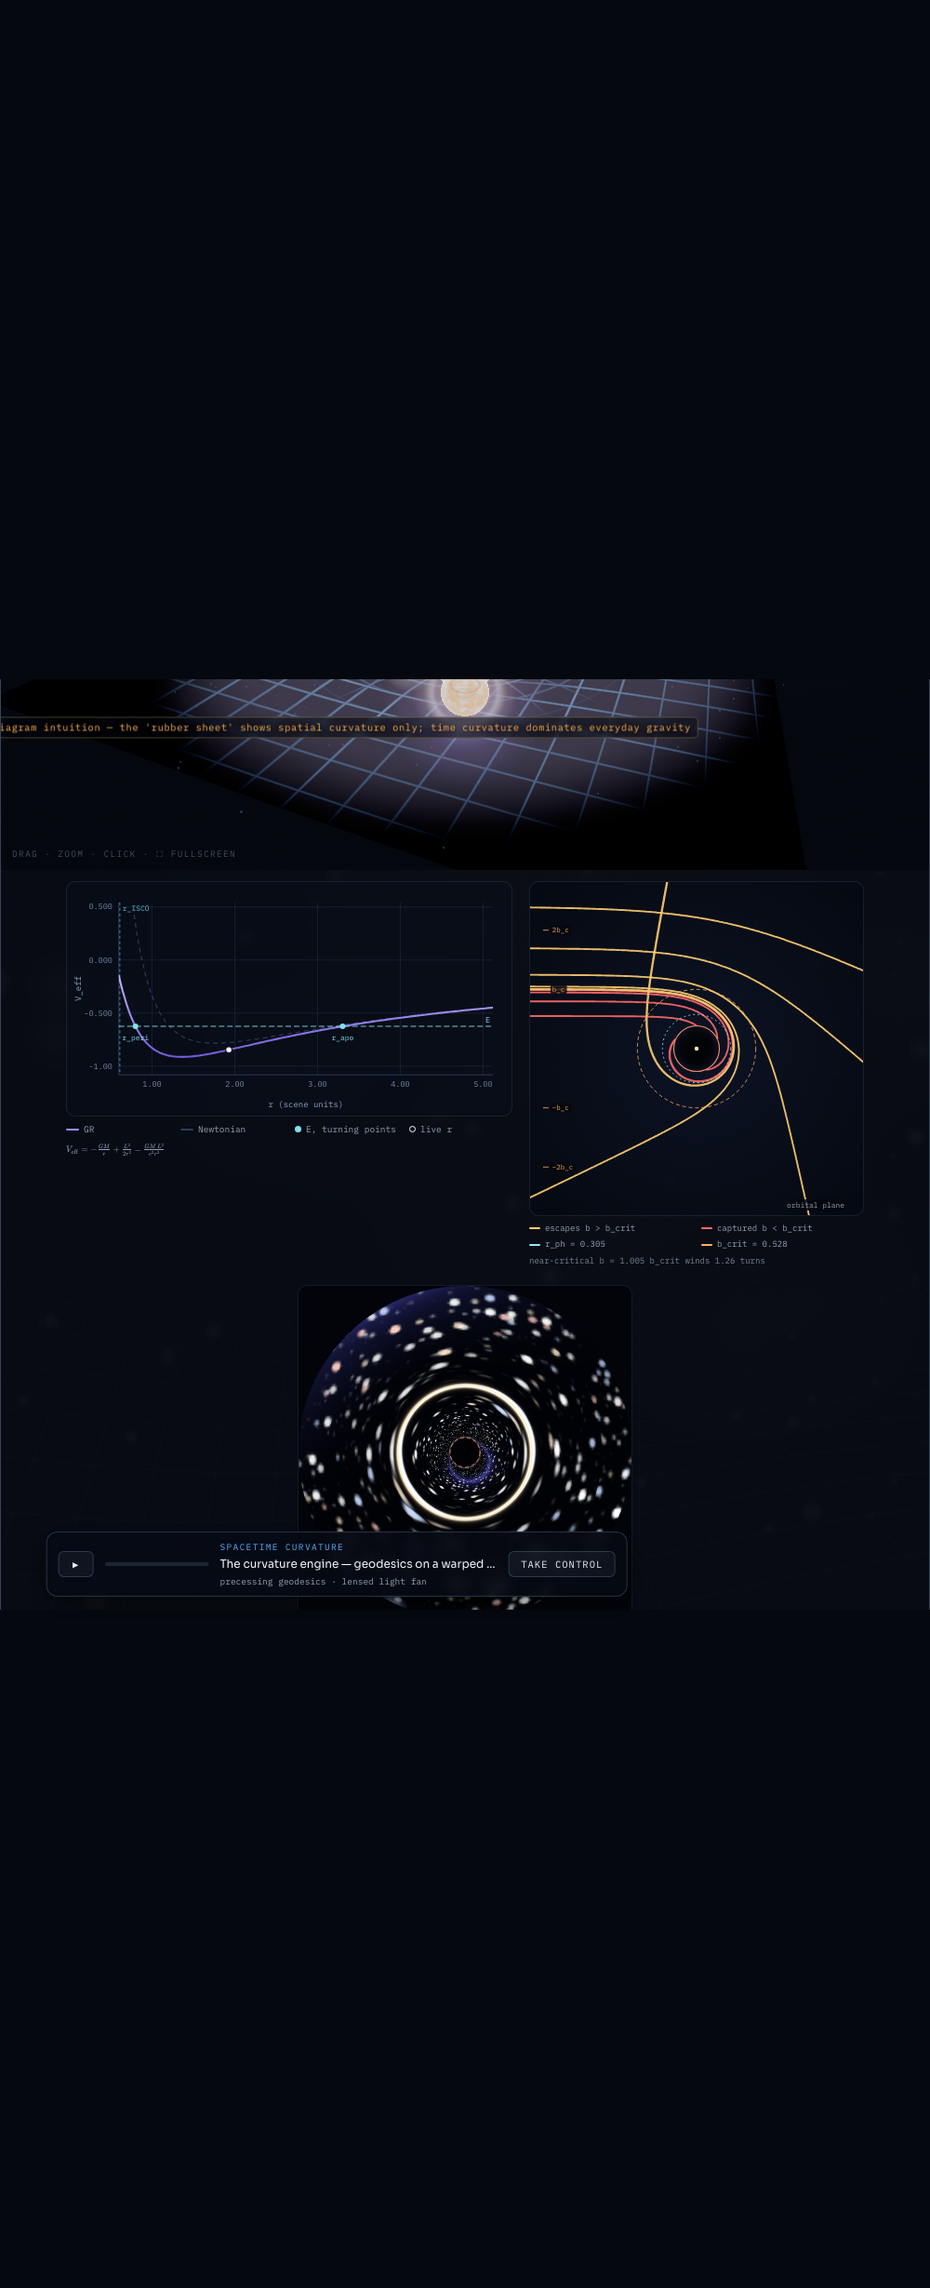
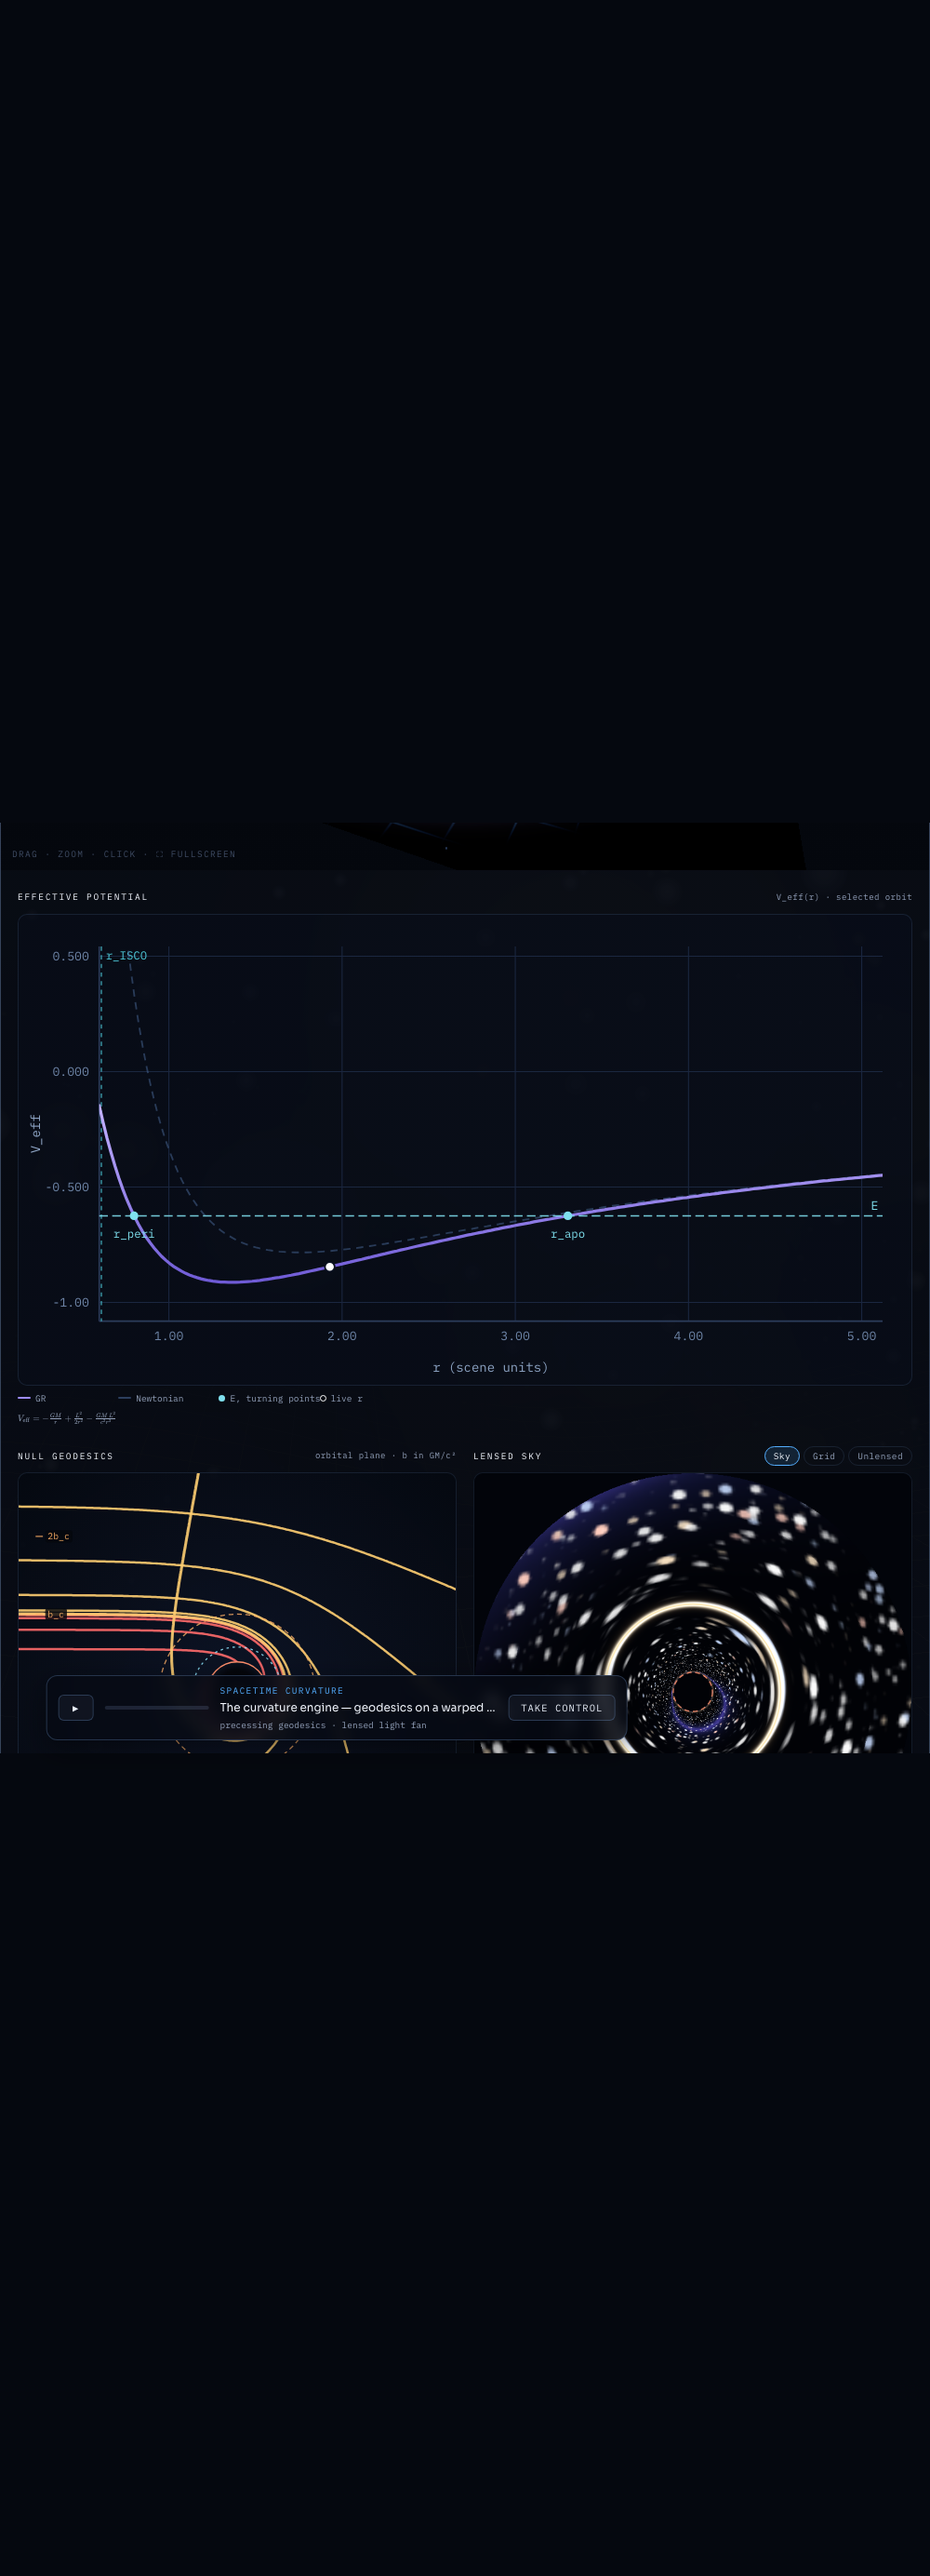
Lay the GR figures out on the content column
The three GR panels were a flex row with a fixed width per panel and
`justify-content: center`. At the 748 px content column the widths summed
to 856 px, so every panel got its own centred row; at 908 px two fit and
the third wrapped alone, leaving half a row empty on either side.

Replace the row with a two-column grid deck that fills the column: the
potential plot spans both columns, the two square figures share the
second row. Panels drop their fixed widths, the grid stretches both cards
to a common height, and the legends pin to the bottom so the two figures
and their keys line up exactly.

Give each figure a compact mono title bar, and move the lensed-sky mode
switcher into its title bar so all three cards share one header height
and the two square figures start on the same baseline.

Widen the potential plot's viewBox from 480x252 to 620x326 so that at the
new full-column width its tick labels land at ~12 px instead of being
scaled up to ~15 px.

diff --git a/index.html b/index.html
@@ -253,10 +253,31 @@ input[type="range"]::-moz-range-thumb { width: 12px; height: 12px; border-radius
 .body-chip { display: inline-flex; align-items: center; gap: 6px; }
 .body-dot { width: 9px; height: 9px; border-radius: 50%; box-shadow: 0 0 6px currentColor; flex: 0 0 auto; }
 .chip-hint { font-family: var(--font-mono); font-size: 10.5px; color: var(--text-dim); align-self: center; }
-.viz-veff-row { display: flex; flex-wrap: wrap; gap: 18px; justify-content: center; align-items: flex-start; }
-.veff-wrap { display: flex; flex-direction: column; gap: 6px; width: min(480px, 82vw); min-width: 0; }
+/* GR analysis deck — three figures laid out on the content column itself, so
+   every card fills its slot and no row is left half empty. The potential plot
+   is wide and spans both columns; the two square figures share the second row. */
+.panel-deck {
+  display: grid;
+  grid-template-columns: repeat(2, minmax(0, 1fr));
+  gap: 18px;
+  padding: 18px;
+  align-items: stretch;
+}
+.panel-deck > .veff-wrap { grid-column: 1 / -1; }
+.panel-head {
+  display: flex; align-items: center; justify-content: space-between; gap: 12px;
+  min-height: 22px;
+  font-family: var(--font-mono); font-size: 9.5px; letter-spacing: 0.18em;
+  text-transform: uppercase; color: var(--head); margin-bottom: 1px;
+}
+.panel-head em { font-style: normal; font-size: 9px; letter-spacing: 0.05em; text-transform: none; color: var(--text-dim); }
+@media (max-width: 720px) {
+  .panel-deck { grid-template-columns: 1fr; gap: 14px; padding: 14px; }
+  .panel-deck > .veff-wrap { grid-column: auto; }
+}
+.veff-wrap { display: flex; flex-direction: column; gap: 6px; width: 100%; min-width: 0; }
 .veff-svg { width: 100%; height: auto; background: rgba(8, 13, 26, 0.55); border: 1px solid var(--line); border-radius: 10px; }
-.veff-legend { display: grid; grid-template-columns: repeat(auto-fit, minmax(92px, 1fr)); gap: 4px 12px; align-items: center; font-family: var(--font-mono); font-size: 9.5px; color: var(--text-dim); }
+.veff-legend { display: grid; grid-template-columns: repeat(auto-fit, minmax(92px, 1fr)); gap: 4px 12px; align-items: center; font-family: var(--font-mono); font-size: 9.5px; color: var(--text-dim); margin-top: auto; }
 .veff-key { display: inline-flex; align-items: center; gap: 5px; white-space: nowrap; }
 .veff-key i { display: inline-block; width: 14px; height: 2px; border-radius: 1px; flex: 0 0 auto; }
 .veff-key i.dash { opacity: 0.55; }
@@ -264,26 +285,27 @@ input[type="range"]::-moz-range-thumb { width: 12px; height: 12px; border-radius
 .veff-key i.ring { width: 7px; height: 7px; border-radius: 50%; border: 1.4px solid #fff; background: transparent; }
 .veff-formula { grid-column: 1 / -1; display: block; padding: 2px 0 4px; overflow-x: auto; overflow-y: hidden; }
 .veff-formula .katex { font-size: 0.92em; }
-.ng-wrap { display: flex; flex-direction: column; gap: 6px; width: min(360px, 82vw); min-width: 0; }
+.ng-wrap { display: flex; flex-direction: column; gap: 6px; width: 100%; min-width: 0; }
 .ng-svg { width: 100%; height: auto; background: radial-gradient(circle at 50% 50%, rgba(12, 20, 38, 0.9), rgba(5, 8, 16, 0.95)); border: 1px solid var(--line); border-radius: 10px; }
-.ng-legend { display: grid; grid-template-columns: 1fr 1fr; gap: 3px 10px; font-family: var(--font-mono); font-size: 9px; color: var(--text-dim); }
+.ng-legend { display: grid; grid-template-columns: 1fr 1fr; gap: 3px 10px; font-family: var(--font-mono); font-size: 9px; color: var(--text-dim); margin-top: auto; }
 .ng-legend span { display: inline-flex; align-items: center; gap: 5px; white-space: nowrap; }
 .ng-legend i { display: inline-block; width: 12px; height: 2px; border-radius: 1px; flex: 0 0 auto; }
 .ng-legend .ng-note { grid-column: 1 / -1; opacity: 0.8; }
 @keyframes ng-flow { from { stroke-dashoffset: 100; } to { stroke-dashoffset: 0; } }
 .ng-pulse { animation: ng-flow 3.6s linear infinite; }
 @media (prefers-reduced-motion: reduce) { .ng-pulse { animation: none; stroke-dasharray: none; stroke-dashoffset: 0; opacity: 0.85; } }
-.lens-wrap { display: flex; flex-direction: column; gap: 6px; width: min(360px, 82vw); min-width: 0; }
+.lens-wrap { display: flex; flex-direction: column; gap: 6px; width: 100%; min-width: 0; }
 .lens-stage { position: relative; width: 100%; aspect-ratio: 1; }
 .lens-canvas { display: block; width: 100%; height: 100%; background: #02040a; border: 1px solid var(--line); border-radius: 10px; }
 .lens-overlay { position: absolute; inset: 0; width: 100%; height: 100%; pointer-events: none; }
-.lens-modes { display: inline-flex; gap: 4px; align-self: center; }
+.lens-modes { display: inline-flex; gap: 4px; }
 .lens-mode { font-family: var(--font-mono); font-size: 9.5px; letter-spacing: 0.04em; padding: 3px 9px; border-radius: 999px; border: 1px solid var(--line); background: transparent; color: var(--text-dim); cursor: pointer; transition: color 0.15s, border-color 0.15s, background 0.15s; }
 .lens-mode:hover { color: var(--head); border-color: var(--line-strong); }
 .lens-mode.is-on { color: var(--head); border-color: var(--acc); background: var(--acc-soft); }
-.lens-legend { display: grid; grid-template-columns: 1fr 1fr; gap: 3px 10px; font-family: var(--font-mono); font-size: 9px; color: var(--text-dim); }
+.lens-legend { display: grid; grid-template-columns: 1fr 1fr; gap: 3px 10px; font-family: var(--font-mono); font-size: 9px; color: var(--text-dim); margin-top: auto; }
 .lens-legend span { display: inline-flex; align-items: center; gap: 5px; white-space: nowrap; }
 .lens-legend i { display: inline-block; width: 12px; height: 2px; border-radius: 1px; flex: 0 0 auto; }
+.lens-legend .lens-note { grid-column: 1 / -1; opacity: 0.8; }
 .toggle-row { display: inline-flex; align-items: center; gap: 8px; cursor: pointer; user-select: none; }
 .toggle-track { width: 30px; height: 16px; border-radius: 9px; border: 1px solid var(--line-strong); background: rgba(148,176,224,0.08); position: relative; transition: background 0.15s; flex: 0 0 auto; }
 .toggle-track.on { background: var(--acc-soft); border-color: var(--acc); }

diff --git a/js/mod-gr.jsx b/js/mod-gr.jsx
@@ -680,7 +680,7 @@ function VEffPanel({ mass, body, view, stRef }) {
   const L = Math.sqrt(L2);
   const E = -gm / (2 * a);
 
-  const W = 480, H = 252, PL = 56, PR = 20, PT = 22, PB = 44;
+  const W = 620, H = 326, PL = 56, PR = 20, PT = 22, PB = 44;
   const iw = W - PL - PR, ih = H - PT - PB;
 
   const V = (r) => P.grEffectivePotential(gm, GR_C2, L, r);
@@ -790,6 +790,10 @@ function VEffPanel({ mass, body, view, stRef }) {
 
   return (
     <div className="veff-wrap">
+      <div className="panel-head">
+        <span>Effective potential</span>
+        <em>V_eff(r) · selected orbit</em>
+      </div>
       <svg viewBox={"0 0 " + W + " " + H} className="veff-svg" role="img"
         aria-label="Effective potential of the selected body: general relativity against Newtonian, with the energy level, turning points and live radius">
         <defs>
@@ -924,6 +928,10 @@ function NullGeodesicPanel({ mass }) {
   const near = paths.find((p) => p.f === 1.005);
   return (
     <div className="ng-wrap">
+      <div className="panel-head">
+        <span>Null geodesics</span>
+        <em>orbital plane · b in GM/c²</em>
+      </div>
       <svg viewBox={"0 0 " + W + " " + H} className="ng-svg" role="img"
         aria-label="Null geodesics in the orbital plane: photon paths below the critical impact parameter plunge through the horizon, paths above it escape, and the near-critical path winds around the photon sphere">
         <defs>
@@ -1188,6 +1196,16 @@ function LensedSkyPanel({ mass }) {
   const rad = (t) => t / L.FOV * 180;
   return (
     <div className="lens-wrap">
+      <div className="panel-head">
+        <span>Lensed sky</span>
+        <div className="lens-modes" role="group" aria-label="Lensed sky view">
+          {NG_MODES.map(([k, label]) => (
+            <button key={k} type="button" aria-pressed={mode === k}
+              className={"lens-mode" + (mode === k ? " is-on" : "")}
+              onClick={() => setMode(k)}>{label}</button>
+          ))}
+        </div>
+      </div>
       <div className="lens-stage">
         <canvas ref={cvRef} width="720" height="720" className="lens-canvas" role="img"
           aria-label="Gravitational lensing of a background sky: a black shadow at the critical impact parameter, a bright photon ring at its edge, and an Einstein ring where the deflection maps the sky back onto itself"></canvas>
@@ -1200,17 +1218,11 @@ function LensedSkyPanel({ mass }) {
           </svg>
         )}
       </div>
-      <div className="lens-modes" role="group" aria-label="Lensed sky view">
-        {NG_MODES.map(([k, label]) => (
-          <button key={k} type="button" aria-pressed={mode === k}
-            className={"lens-mode" + (mode === k ? " is-on" : "")}
-            onClick={() => setMode(k)}>{label}</button>
-        ))}
-      </div>
       <div className="lens-legend">
         <span><i style={{ background: "#ff8f6b" }}></i>shadow b &lt; b_crit</span>
         <span><i style={{ background: "#8fe8ff" }}></i>photon ring</span>
         <span><i style={{ background: "#ffe9b0" }}></i>Einstein ring θ_E = {L.thetaE.toFixed(3)}</span>
+        <span className="lens-note">α(b) integrated per pixel · FOV = 2.5 θ_E</span>
       </div>
     </div>
   );
@@ -2078,7 +2090,7 @@ function CurvatureEngine3D() {
         initial={{ radius: 17, theta: 0.4, phi: 1.08, target: [0, -1.2, 0], minR: 8, maxR: 38, bloom: { strength: 1.12, radius: 0.66, threshold: 0.1 } }}
         cameraGoal={cameraGoal}
         build={build} fallback={<CurvatureEngine></CurvatureEngine>}></Scene3D>
-      <div className="viz-toolbar viz-veff-row">
+      <div className="panel-deck">
         <VEffPanel mass={mass} body={selBody} view={view} stRef={stRef}></VEffPanel>
         <NullGeodesicPanel mass={mass}></NullGeodesicPanel>
         <LensedSkyPanel mass={mass}></LensedSkyPanel>
